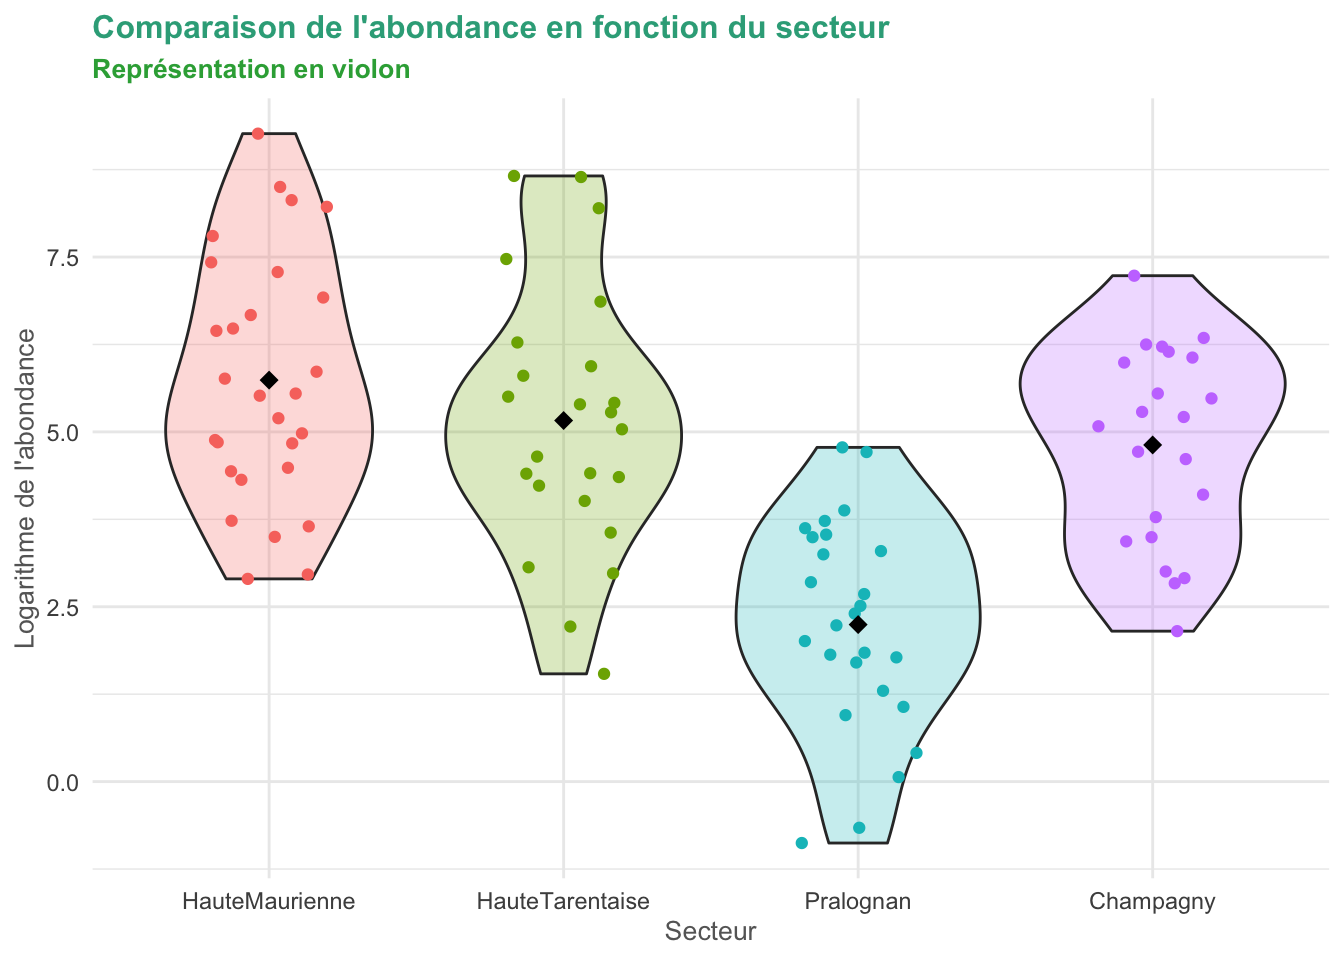
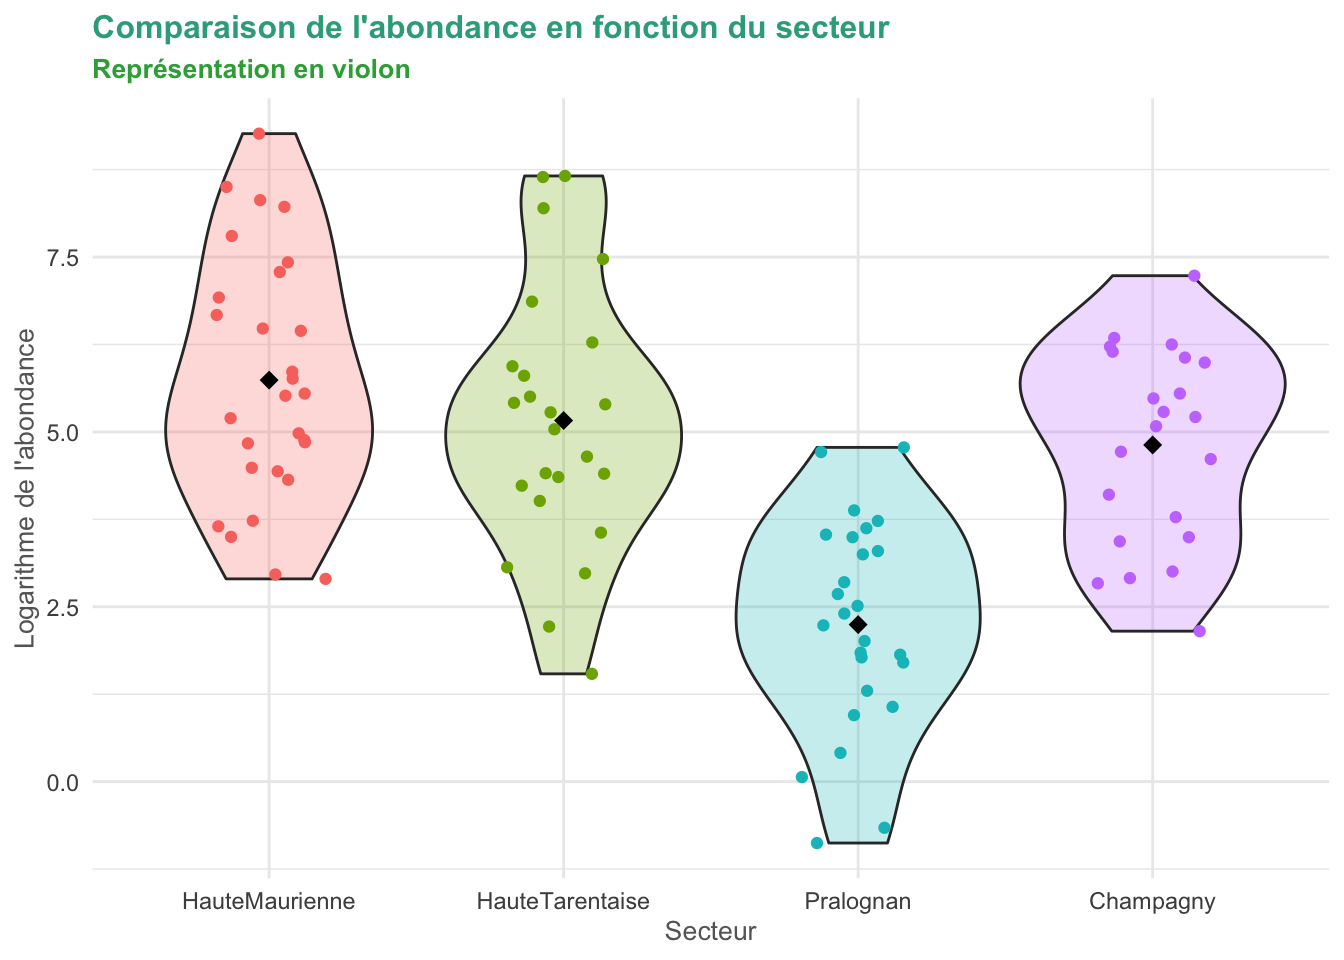
Analyse statistique multivariee: correction du lien d'acces au diaporama classificaion non-supervisee

diff --git a/docs/teaching/intro-analyse-multivariee/index.html b/docs/teaching/intro-analyse-multivariee/index.html
@@ -260,7 +260,7 @@ document.addEventListener("DOMContentLoaded", function () {
 <li>TD 6-7 : <a href="../../downloads/intro-analyse-multivariee/TD6.zip">Analyse en composantes principales</a></li>
 <li>TDs 8 : Analyse des correspondances, Analyse des correspondances multiples</li>
 </ul></li>
-<li><p>Chapitre 4 - <a href="../..downloads/intro-analyse-multivariee/chap5_ClassifNonSupervisee.pdf">Introduction à la classification automatique non-supervisée</a></p>
+<li><p>Chapitre 4 - <a href="../../downloads/intro-analyse-multivariee/chap5_ClassifNonSupervisee.pdf">Introduction à la classification automatique non-supervisée</a></p>
 <ul>
 <li>TD 9 : Classification ascendante hiérarchique</li>
 </ul></li>
